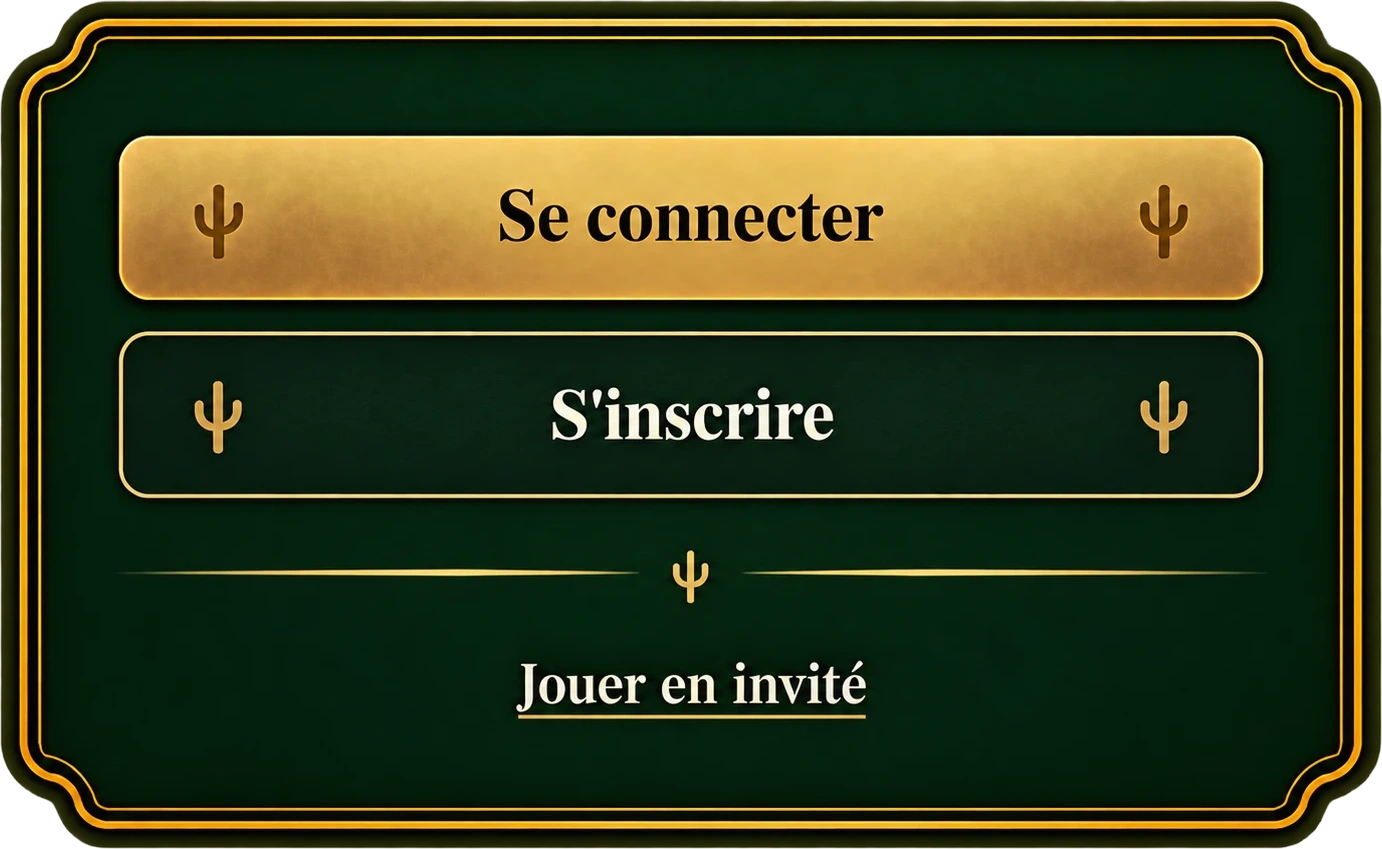
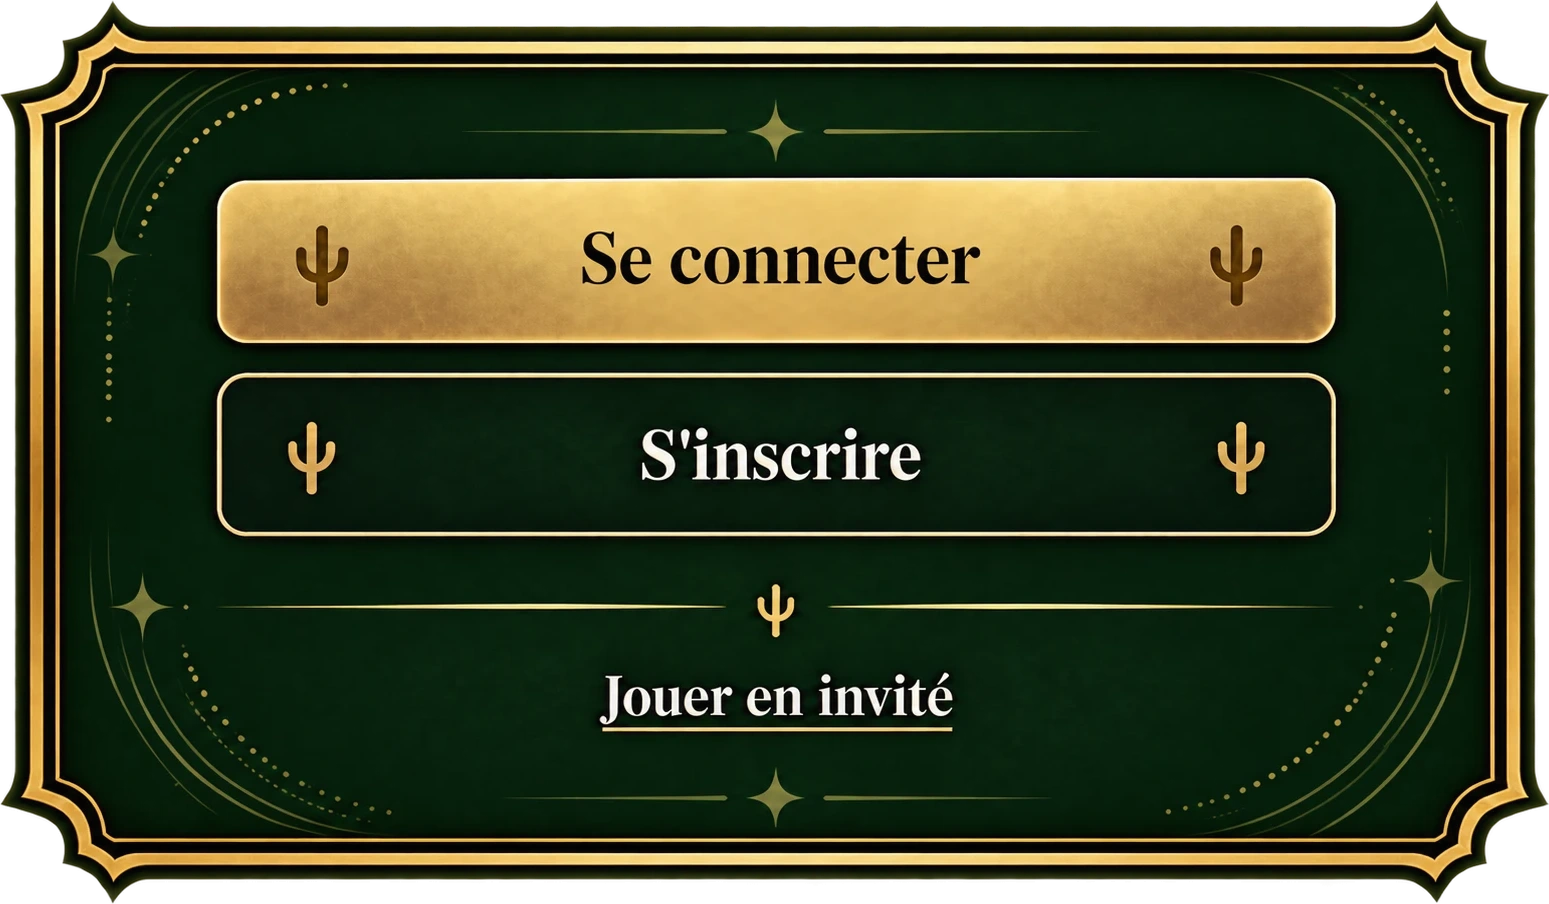
Nouvelles maquettes : echelle commune, champs en Poppins, croix dans le cadre
- Les cinq images fournies remplacent les precedentes (logo, accueil,
  Rejoindre / Creer, Connexion, Inscription)
- Logo detoure de son fond sombre et agrandi
- Tailles d'affichage harmonisees dans la scene, pour la lisibilite
- Textes saisis en Poppins, poses apres l'icone et le trait peints
- Croix de fermeture placee a l'interieur du cadre, sans depasser

diff --git a/public/index.html b/public/index.html
@@ -5,7 +5,7 @@
 <meta name="viewport" content="width=device-width,initial-scale=1,maximum-scale=1,user-scalable=no">
 <title>🌵 Cactus</title>
 <style>
-@import url('https://fonts.googleapis.com/css2?family=Playfair+Display:wght@400;600;700&family=Inter:wght@400;500;600;700&display=swap');
+@import url('https://fonts.googleapis.com/css2?family=Playfair+Display:wght@400;600;700&family=Inter:wght@400;500;600;700&family=Poppins:wght@400;500;600&display=swap');
 :root{
   --felt:#1a5c35;--felt-dark:#0d3520;--felt-light:#236b40;
   --gold:#d4a84b;--gold-light:#f0c96e;
@@ -497,33 +497,36 @@ body[data-screen="lobby"] #profile-btn{display:block}
 @keyframes penaltyIn{from{transform:translateX(30px) scale(.7);opacity:0}to{transform:none;opacity:1}}
 
 /* ── ÉCRANS HORS JEU : LES MAQUETTES SERVENT D'IMAGES ──
-   Chaque écran est une image fournie (public/ui-*.webp) affichée à taille fixe.
-   Les champs de saisie et les zones cliquables sont posés par-dessus, en
+   Chaque écran est une image fournie (public/ui-*.webp) affichée à taille fixe
+   dans la scène 1664x936, donc tous les menus gardent la même échelle. Les
+   champs de saisie et les zones cliquables sont posés par-dessus, en
    pourcentage de l'image : si une image change, il faut remesurer ces valeurs.
-   Les libellés (Se connecter, Votre prénom…) sont peints dans l'image. */
-.ui-logo{width:660px;height:176px;background:url('/ui-logo.webp') center/100% 100% no-repeat;flex-shrink:0}
+   Les libellés (Se connecter, Connexion…) sont peints dans l'image ; seuls les
+   textes saisis sont en Poppins. */
+.ui-logo{width:640px;height:226px;background:url('/ui-logo.webp') center/contain no-repeat;flex-shrink:0;
+  filter:drop-shadow(0 6px 18px rgba(0,0,0,.75))}
 .ui-panel{position:relative;background-size:100% 100%;background-repeat:no-repeat;flex-shrink:0;
-  font-family:'Playfair Display',serif;color:#f6ead0;filter:drop-shadow(0 20px 40px rgba(0,0,0,.5))}
-.ui-home{width:640px;height:393px;background-image:url('/ui-home.webp')}
-.ui-join{width:640px;height:447px;background-image:url('/ui-join.webp')}
-.ui-login{width:660px;height:459px;background-image:url('/ui-login.webp')}
-.ui-register{width:660px;height:495px;background-image:url('/ui-register.webp')}
+  font-family:'Poppins',sans-serif;color:#f6ead0;filter:drop-shadow(0 20px 40px rgba(0,0,0,.5))}
+.ui-home{width:780px;height:455px;background-image:url('/ui-home.webp')}
+.ui-join{width:740px;height:500px;background-image:url('/ui-join.webp')}
+.ui-login{width:740px;height:499px;background-image:url('/ui-login.webp')}
+.ui-register{width:720px;height:512px;background-image:url('/ui-register.webp')}
 /* Zone cliquable transparente posée sur un bouton peint dans l'image */
 .ui-hot{position:absolute;border:none;background:transparent;cursor:pointer;border-radius:16px;padding:0;
   transition:box-shadow .12s,transform .1s,background .15s}
-.ui-hot:hover{box-shadow:inset 0 0 40px rgba(255,255,255,.22)}
+.ui-hot:hover{box-shadow:inset 0 0 40px rgba(255,255,255,.2)}
 .ui-hot:active{transform:translateY(2px)}
-.ui-hot.off{background:rgba(2,18,11,.55);cursor:default}
+.ui-hot.off{background:rgba(2,18,11,.5);cursor:default}
 .ui-hot.off:hover{box-shadow:none}
 /* Champ de saisie posé dans le cadre peint, après l'icône et le trait */
-.ui-in{position:absolute;border:none;outline:none;background:#0b2618;color:#f6ead0;
-  font-family:'Playfair Display',serif;font-size:20px;padding:0 4px}
-.ui-in::placeholder{color:rgba(232,226,212,.55)}
-.ui-in:-webkit-autofill{-webkit-text-fill-color:#f6ead0;-webkit-box-shadow:0 0 0 80px #0b2618 inset}
-.ui-join .ui-in{background:#0c2c1b}
-.ui-panel>.cactus-close{top:-16px;right:-16px;width:54px;height:54px}
+.ui-in{position:absolute;border:none;outline:none;background:transparent;color:#fdf6e6;
+  font-family:'Poppins',sans-serif;font-size:21px;font-weight:400;padding:0}
+.ui-in::placeholder{color:rgba(246,234,208,.45)}
+.ui-in:-webkit-autofill{-webkit-text-fill-color:#fdf6e6;-webkit-box-shadow:0 0 0 80px #0e3221 inset}
+/* La croix reste à l'intérieur du cadre peint */
+.ui-panel>.cactus-close{top:14px;right:16px;width:46px;height:46px}
 .ui-err{position:absolute;left:8%;right:8%;bottom:-30px;text-align:center;
-  font-family:'Inter',sans-serif;font-size:14px;color:#ff9a86;min-height:18px}
+  font-family:'Poppins',sans-serif;font-size:14px;color:#ff9a86;min-height:18px}
 
 
 /* ── LOBBY ── */
@@ -1185,20 +1188,20 @@ body.anim-lock #react-dock{ pointer-events:auto; }
 
   <!-- ACCUEIL : maquette public/ui-home.webp, zones cliquables posées dessus -->
   <div class="ui-panel ui-home" id="home-account">
-    <button class="ui-hot" style="left:8.6%;top:16%;width:82.8%;height:19.3%" onclick="openAuth('login')" aria-label="Se connecter"></button>
-    <button class="ui-hot" style="left:8.6%;top:39.1%;width:82.8%;height:19.6%" onclick="openAuth('register')" aria-label="S'inscrire"></button>
-    <button class="ui-hot" style="left:33%;top:74%;width:34%;height:12%" onclick="playGuest()" aria-label="Jouer en invité"></button>
+    <button class="ui-hot" style="left:14%;top:19.7%;width:72.2%;height:18.3%" onclick="openAuth('login')" aria-label="Se connecter"></button>
+    <button class="ui-hot" style="left:14%;top:41.3%;width:72.2%;height:18%" onclick="openAuth('register')" aria-label="S'inscrire"></button>
+    <button class="ui-hot" style="left:36%;top:73.5%;width:28%;height:11%" onclick="playGuest()" aria-label="Jouer en invité"></button>
   </div>
 
   <!-- REJOINDRE / CRÉER : maquette public/ui-join.webp -->
   <div class="ui-panel ui-join" id="lobby-main" style="display:none">
     <button class="cactus-close" onclick="backToHome()" aria-label="Retour" title="Retour"></button>
     <input class="ui-in" id="player-name" placeholder="Votre prénom" maxlength="20"
-           style="left:18.5%;top:32.4%;width:71.5%;height:7.4%">
+           style="left:17%;top:33.8%;width:73%;height:6.5%">
     <input class="ui-in" id="room-code" placeholder="Code" maxlength="4" inputmode="numeric"
-           style="left:18.5%;top:47.6%;width:35%;height:7.4%">
-    <button class="ui-hot" style="left:58.4%;top:44.5%;width:33.7%;height:13.6%" onclick="joinRoom()" aria-label="Rejoindre"></button>
-    <button class="ui-hot" style="left:8.3%;top:74.2%;width:83.6%;height:15.1%" onclick="createRoom()" aria-label="Créer une partie"></button>
+           style="left:17%;top:50.8%;width:40%;height:6.5%">
+    <button class="ui-hot" style="left:61.2%;top:47.6%;width:32%;height:13.5%" onclick="joinRoom()" aria-label="Rejoindre"></button>
+    <button class="ui-hot" style="left:7.1%;top:73.3%;width:85.8%;height:14.7%" onclick="createRoom()" aria-label="Créer une partie"></button>
     <div class="ui-err" id="lobby-error"></div>
   </div>
 
@@ -2346,20 +2349,19 @@ function openAuth(mode){
   // ui-register.webp) : on pose seulement les champs de saisie et les zones
   // cliquables, aux positions mesurées sur ces images.
   const field = (id, top, ph, extra = '') =>
-    `<input class="ui-in" id="${id}" placeholder="${ph}" ${extra} style="left:21%;top:${top}%;width:67%;height:6.6%">`;
-  const tabTop = login ? 9 : 7;
+    `<input class="ui-in" id="${id}" placeholder="${ph}" ${extra} style="left:${login?22:23}%;top:${top}%;width:${login?68:66}%;height:${login?7.5:5.8}%">`;
   const tabs = `
-    <button class="ui-hot" style="left:8%;top:${tabTop}%;width:40%;height:15%" onclick="openAuth('login')" aria-label="Connexion"></button>
-    <button class="ui-hot" style="left:52%;top:${tabTop}%;width:40%;height:15%" onclick="openAuth('register')" aria-label="Inscription"></button>`;
+    <button class="ui-hot" style="left:11%;top:8%;width:38%;height:14%" onclick="openAuth('login')" aria-label="Connexion"></button>
+    <button class="ui-hot" style="left:53%;top:8%;width:36%;height:14%" onclick="openAuth('register')" aria-label="Inscription"></button>`;
   const body = login
-    ? `${field('auth-email', 33.6, 'Adresse email', 'type="email" autocomplete="email" inputmode="email"')}
-       ${field('auth-pw', 53.8, 'Mot de passe', 'type="password" autocomplete="current-password"')}
-       <button class="ui-hot" id="auth-submit" style="left:8.1%;top:72.3%;width:83.9%;height:15.6%" aria-label="Se connecter"></button>`
-    : `${field('auth-email', 24.6, 'Adresse email', 'type="email" autocomplete="email" inputmode="email"')}
-       ${field('auth-username', 37.5, 'Pseudo', 'maxlength="16" autocomplete="nickname"')}
-       ${field('auth-pw', 50.4, 'Mot de passe', 'type="password" autocomplete="new-password"')}
-       ${field('auth-pw2', 63.3, 'Confirmer le mot de passe', 'type="password"')}
-       <button class="ui-hot" id="auth-submit" style="left:8.5%;top:74.4%;width:83%;height:12.6%" aria-label="S'inscrire"></button>`;
+    ? `${field('auth-email', 34, 'Adresse email', 'type="email" autocomplete="email" inputmode="email"')}
+       ${field('auth-pw', 53.7, 'Mot de passe', 'type="password" autocomplete="current-password"')}
+       <button class="ui-hot" id="auth-submit" style="left:7.9%;top:71.5%;width:84.1%;height:15.1%" aria-label="Se connecter"></button>`
+    : `${field('auth-email', 25.7, 'Adresse email', 'type="email" autocomplete="email" inputmode="email"')}
+       ${field('auth-username', 39.3, 'Pseudo', 'maxlength="16" autocomplete="nickname"')}
+       ${field('auth-pw', 52.9, 'Mot de passe', 'type="password" autocomplete="new-password"')}
+       ${field('auth-pw2', 66.5, 'Confirmer le mot de passe', 'type="password"')}
+       <button class="ui-hot" id="auth-submit" style="left:8.8%;top:78.5%;width:82.3%;height:12.3%" aria-label="S'inscrire"></button>`;
   qid('modal-root').innerHTML = `<div class="modal-bg"><div class="ui-panel ${login?'ui-login':'ui-register'}">
     <button class="cactus-close" onclick="qid('modal-root').innerHTML=''" aria-label="Fermer" title="Fermer"></button>
     ${tabs}${body}
